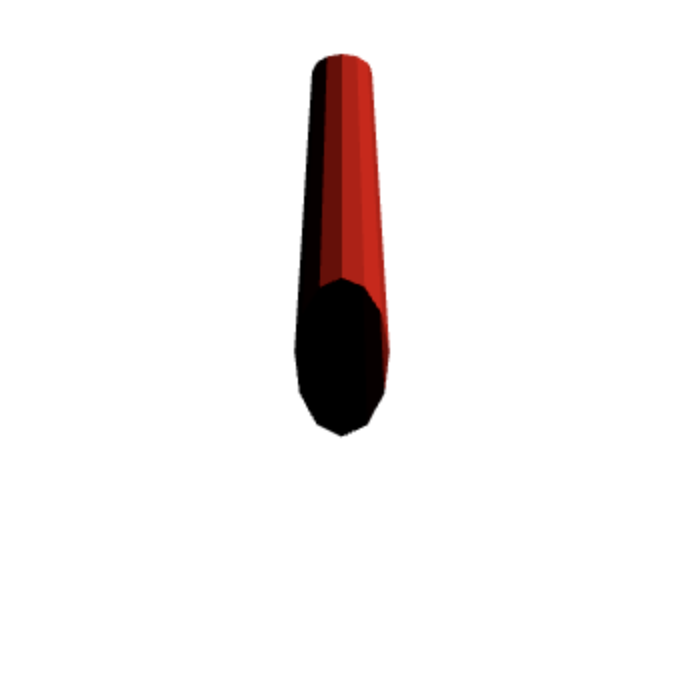
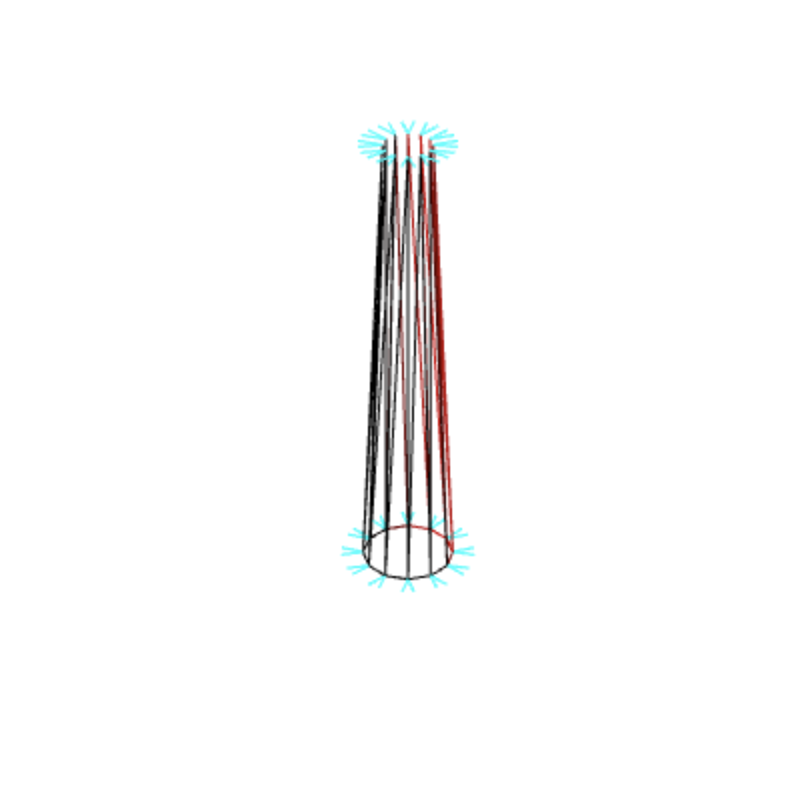
10/19/19

Changed region(s): [[0.4044, 0.0622, 0.5911, 0.7467]]

diff --git a/lab2/tc.js b/lab2/tc.js
@@ -439,10 +439,10 @@ function setNormals() {
  * this cylindar is located at (0, 0)
  */
 function generate_tc() {
-    var r1 = 0.05;
-    var r2 = 0.1;
+    var r1 = 0.5;
+    var r2 = 1;
     var theta = Math.PI / 6;
-    var height = 1;
+    var height = 10;
     var topx = [], topy = [];
     var bottomx = [], bottomy = [];
     for (var i = 0; i < 13; i++) {
@@ -613,16 +613,16 @@ function initMatrix(gl, cylinderProgram, lineProgram, tag1, tag2) {
         if (tag2 == 0) { // Draw from top view
             // Set the eye point and the viewing volume
             var mvpMatrix = new Matrix4();
-            mvpMatrix.setOrtho(-1, 1, -1, 1, -2, 2);
-            mvpMatrix.setLookAt(0, 0, 1, 0, 0, 0, 0, 1, 0);
+            mvpMatrix.setPerspective(30, 1, 1, 100);
+            mvpMatrix.lookAt(0, 0, 40, 0, 0, 0, 0, 1, 0);
             // Pass the model view projection matrix to u_MvpMatrix
             gl.uniformMatrix4fv(cylinderProgram.u_MvpMatrix, false, mvpMatrix.elements);
         }
         else { // Draw from side view
             // Set the eye point and the viewing volume
             var mvpMatrix = new Matrix4();
-            mvpMatrix.setOrtho(-1, 1, -1, 1, -2, 2);
-            mvpMatrix.setLookAt(0, -1, 0.75, 0, 0, 0, 0, 1, 0);
+            mvpMatrix.setPerspective(30, 1, 1, 100);
+            mvpMatrix.lookAt(0, -40, 30, 0, 0, 0, 0, 1, 0);
             // Pass the model view projection matrix to u_MvpMatrix
             gl.uniformMatrix4fv(cylinderProgram.u_MvpMatrix, false, mvpMatrix.elements);
         }
@@ -632,16 +632,16 @@ function initMatrix(gl, cylinderProgram, lineProgram, tag1, tag2) {
         if (tag2 == 0) {
             // Set the eye point and the viewing volume
             var mvpMatrix = new Matrix4();
-            mvpMatrix.setOrtho(-1, 1, -1, 1, -2, 2);
-            mvpMatrix.setLookAt(0, 0, 1, 0, 0, 0, 0, 1, 0);
+            mvpMatrix.setPerspective(30, 1, 1, 100);
+            mvpMatrix.lookAt(0, 0, 40, 0, 0, 0, 0, 1, 0);
             // Pass the model view projection matrix to u_MvpMatrix
             gl.uniformMatrix4fv(lineProgram.u_MvpMatrix, false, mvpMatrix.elements);
         }
         else {
             // Set the eye point and the viewing volume
             var mvpMatrix = new Matrix4();
-            mvpMatrix.setOrtho(-1, 1, -1, 1, -2, 2);
-            mvpMatrix.setLookAt(0, -1, 0.75, 0, 0, 0, 0, 1, 0);
+            mvpMatrix.setPerspective(30, 1, 1, 100);
+            mvpMatrix.lookAt(0, -40, 30, 0, 0, 0, 0, 1, 0);
             // Pass the model view projection matrix to u_MvpMatrix
             gl.uniformMatrix4fv(lineProgram.u_MvpMatrix, false, mvpMatrix.elements);
         }

diff --git a/lab2/guide.html b/lab2/guide.html
@@ -18,7 +18,7 @@
         img {
             position: absolute;
             right: 80px;
-            top: 180px;
+            top: 150px;
             box-shadow: 2px 2px 5px steelblue;
             border-radius: 0% 10% 0% 10% / 0% 20% 0% 20%;
         }
